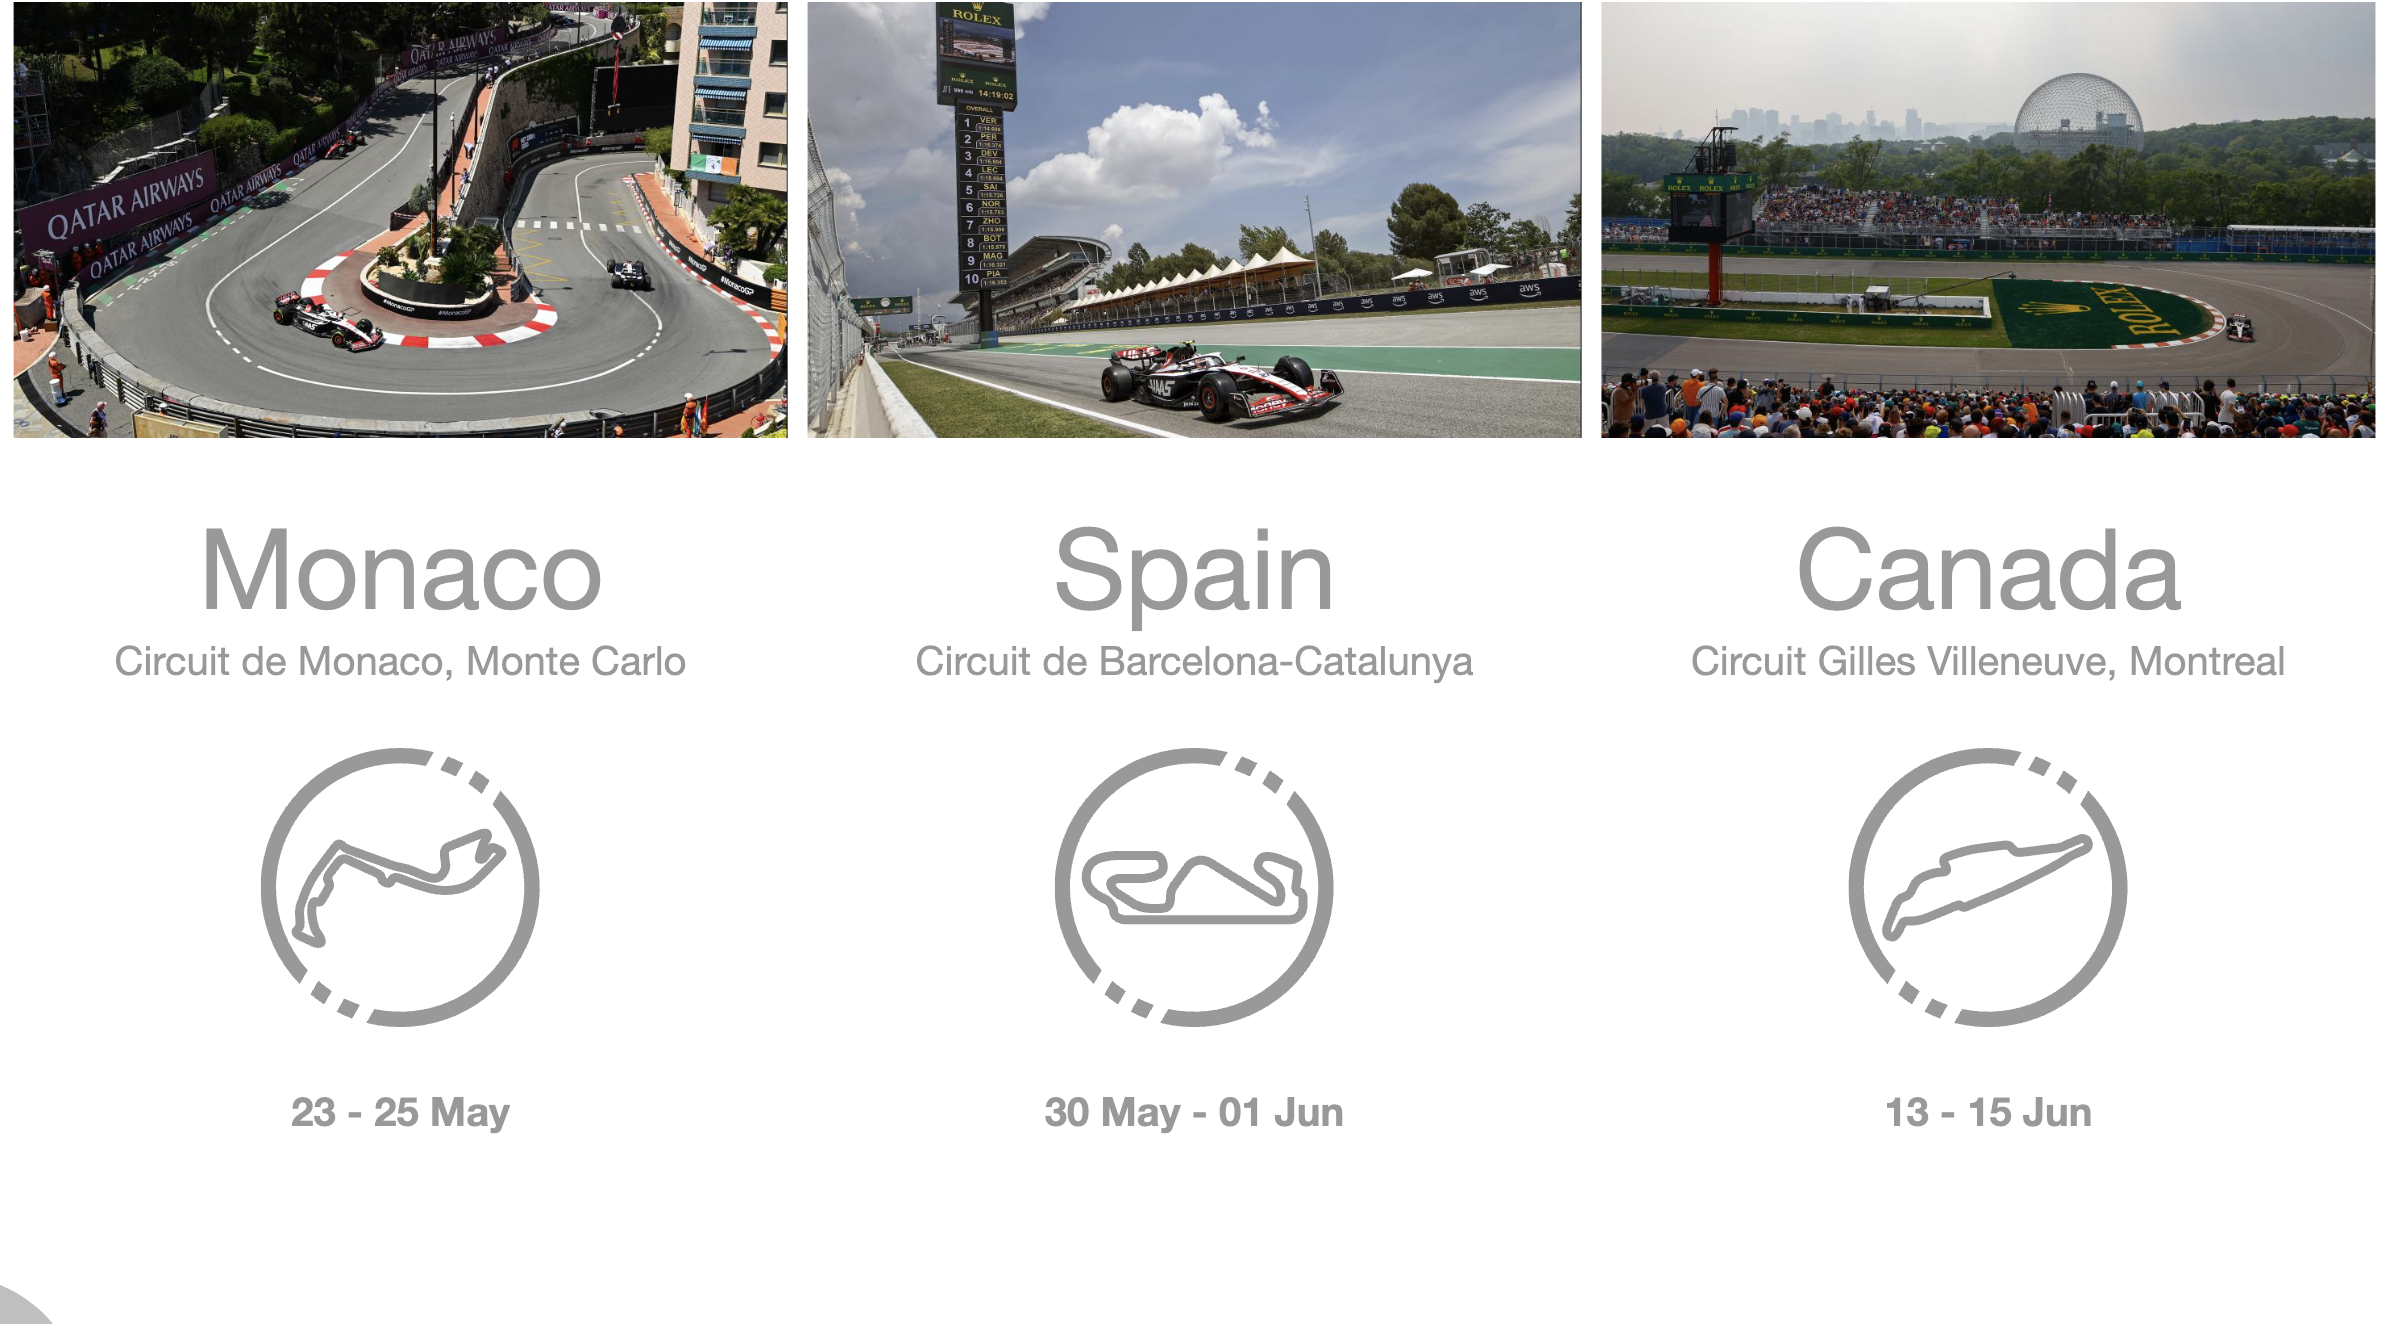
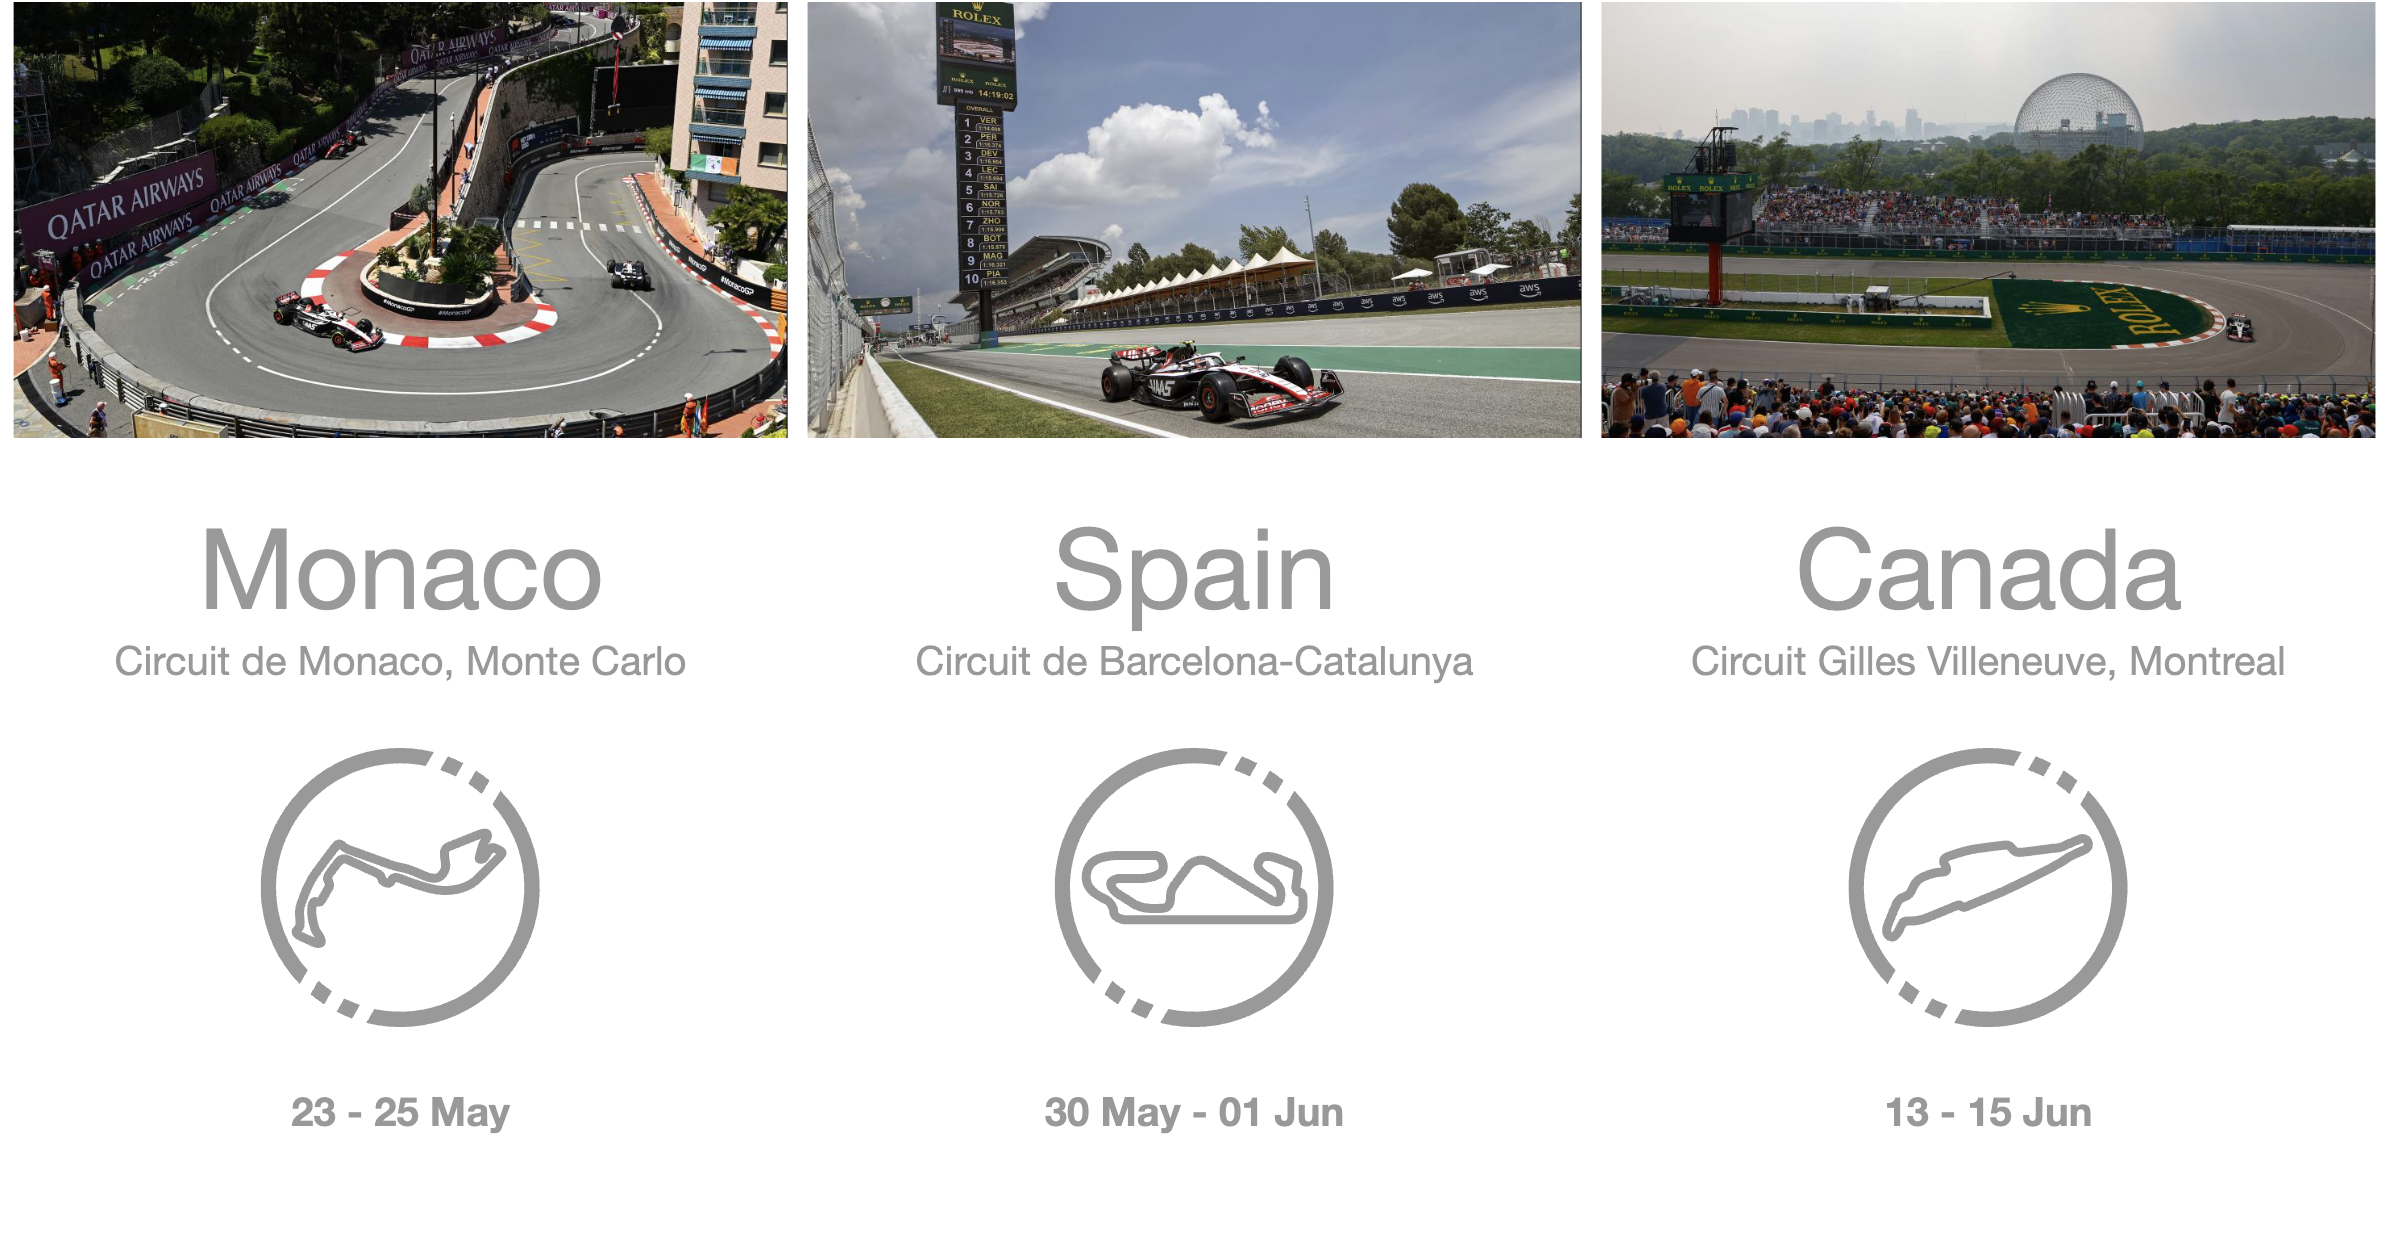
ss

diff --git a/index.html b/index.html
@@ -70,7 +70,7 @@
 
             <h1 class="head3">Upcoming Races On The Calendar:</h1>
 
-            <img src="bilder/race2.png" alt="">
+            <img src="bilder/race3.png" alt="">
 
         </section>
 
